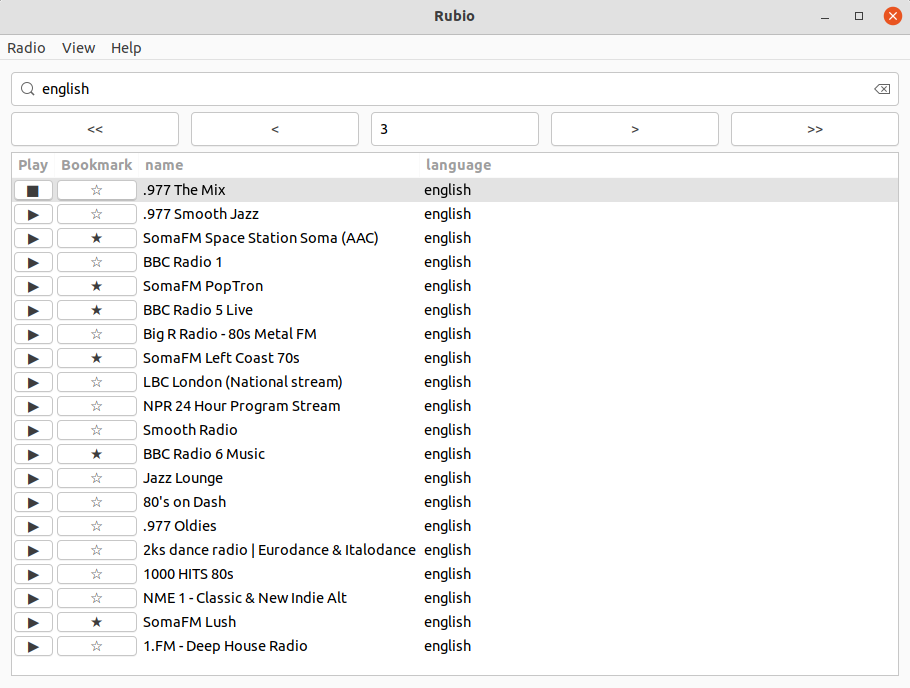
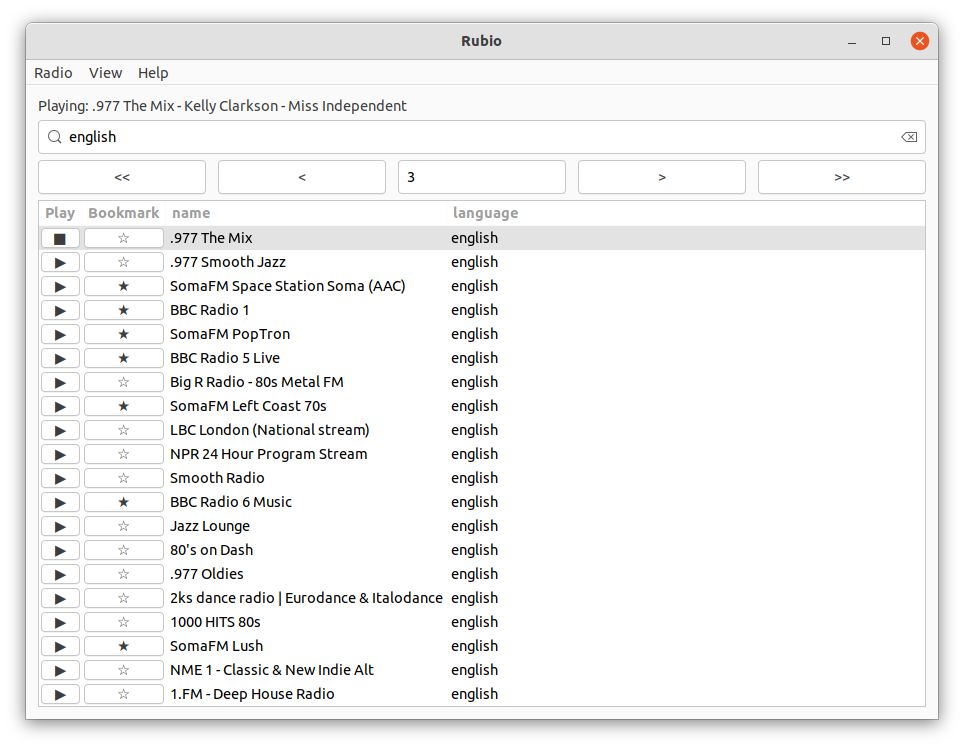
Update readme+screenshots / Add debugging / Revert to 0.0.6 because it has not been released

Changed region(s): [[0.0, 0.0, 1.0, 0.9767]]

diff --git a/lib/rubio/view/radio.rb b/lib/rubio/view/radio.rb
@@ -41,7 +41,7 @@ module Rubio
                       on_read: ->(value) {
                         w = body_root
                         if w.nil? # window not built yet
-			  # Linux libui is weird. The first time height is set, it must be halved
+                          # Linux libui is weird. The first time height is set, it must be halved
                           value / (OS.linux? ? 2.0 : 1)
                         else
                           value -= 50 if OS.linux? # more Linux weirdness
@@ -189,6 +189,7 @@ module Rubio
                 begin
                   @presenter.select_station(station)
                 rescue StandardError => e
+                  puts e.full_message if debug
                   message_box(e.message)
                 end
               }
@@ -218,7 +219,8 @@ module Rubio
       def about_message_box
         license = begin
           File.read(File.expand_path('../../../LICENSE.txt', __dir__))
-        rescue StandardError
+        rescue StandardError => e
+          puts e.full_message if debug
           ''
         end
         product = "rubio-radio #{Rubio::VERSION}"

diff --git a/lib/rubio/version.rb b/lib/rubio/version.rb
@@ -1,5 +1,5 @@
 # frozen_string_literal: true
 
 module Rubio
-  VERSION = '0.0.7'
+  VERSION = '0.0.6'
 end

diff --git a/README.md b/README.md
@@ -57,7 +57,7 @@ The stations are fetched gradually (asynchronously) from the [Radio Browser](htt
 rubio --no-gradual
 ```
 
-Default player is `vlc -I rc`. But, you can use any command line player that can take URL of radio station as its first argument.
+Default player is `vlc -I rc`, which enables showing currently playing song info (except on Windows). But, you can use any command line player that can take URL of radio station as its first argument.
 
 ```
 rubio --backend mpg123
@@ -71,7 +71,7 @@ rubio --help
 
 ```
 Usage: rubio [options]
-        --vlc [STR]         use VLC interface STR on the backend [dummy]
+        --vlc [STR]         use VLC interface STR on the backend [rc]
         --mpg123            use mpg123 on the backend
     -b, --backend STR       command to use as backend player ['vlc -I rc']
     -c, --count INT         number of stations to fetch from radio-browser or -1 to fetch them all [-1]
@@ -83,6 +83,7 @@ Usage: rubio [options]
         --[no-]bookmarks    show/hide bookmarks [true]
         --[no-]gradual      gradually/non-gradually fetch stations [true]
         --[no-]margins      show/hide margins [true]
+        --[no-]info         show/hide currently playing (song) info when using 'vlc -I rc' backend only [true]
         --debug             output status of monitored threads
         --help              show this help message
         --version           show the rubio version number

diff --git a/CHANGELOG.md b/CHANGELOG.md
@@ -1,14 +1,10 @@
 # Change Log
 
-## 0.0.7
-
-- Change the default backend to `vlc -I rc`
-- Show currently playing song if backend is `vlc -I rc`
-- Command option `--[no-]info` to show/hide currently playing (song) info when using `vlc -I rc` backend only [true]
-
 ## 0.0.6
 
 - Command option `--[no-]margins` to show/hide margins around window content
+- Command option `--[no-]info` to show/hide currently playing (song) info when using `vlc -I rc` backend only [true]
+- Change the default backend to `vlc -I rc` in order to show currently playing song
 - Update command option `--count` to accept `-1` as a valid value for fetching all radio stations
 - Make app fetch all radio stations by default (`--count -1`)
 - Fix issue with bookmark/unbookmark menu items remaining enabled after stopping song
